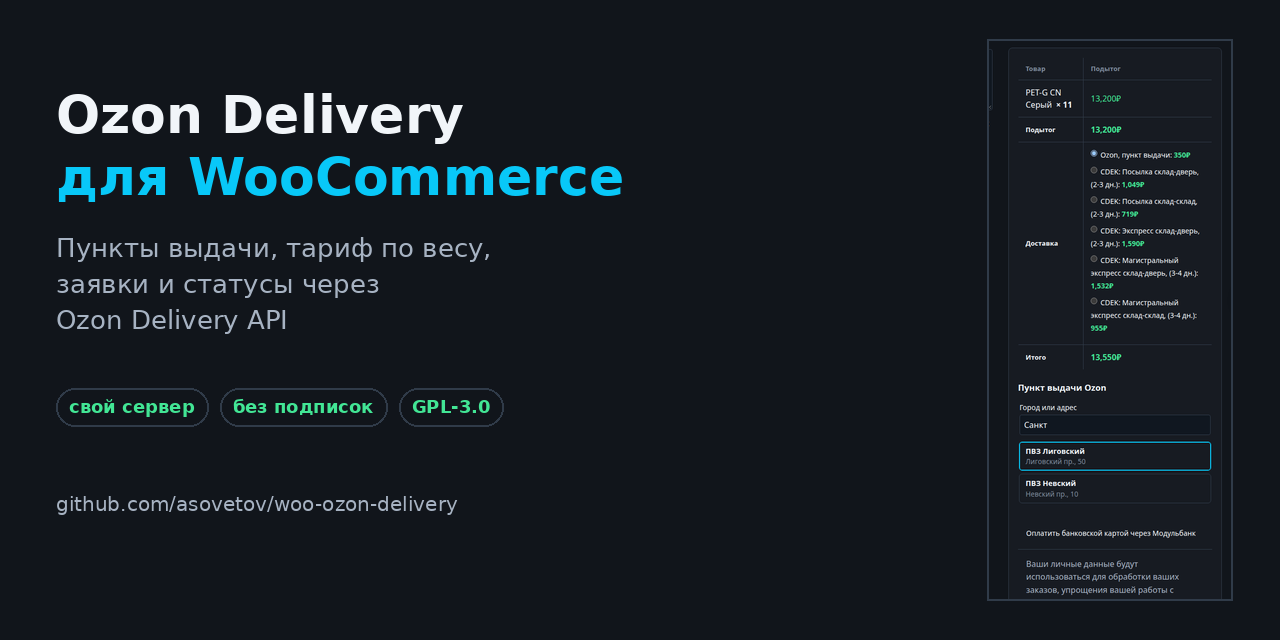
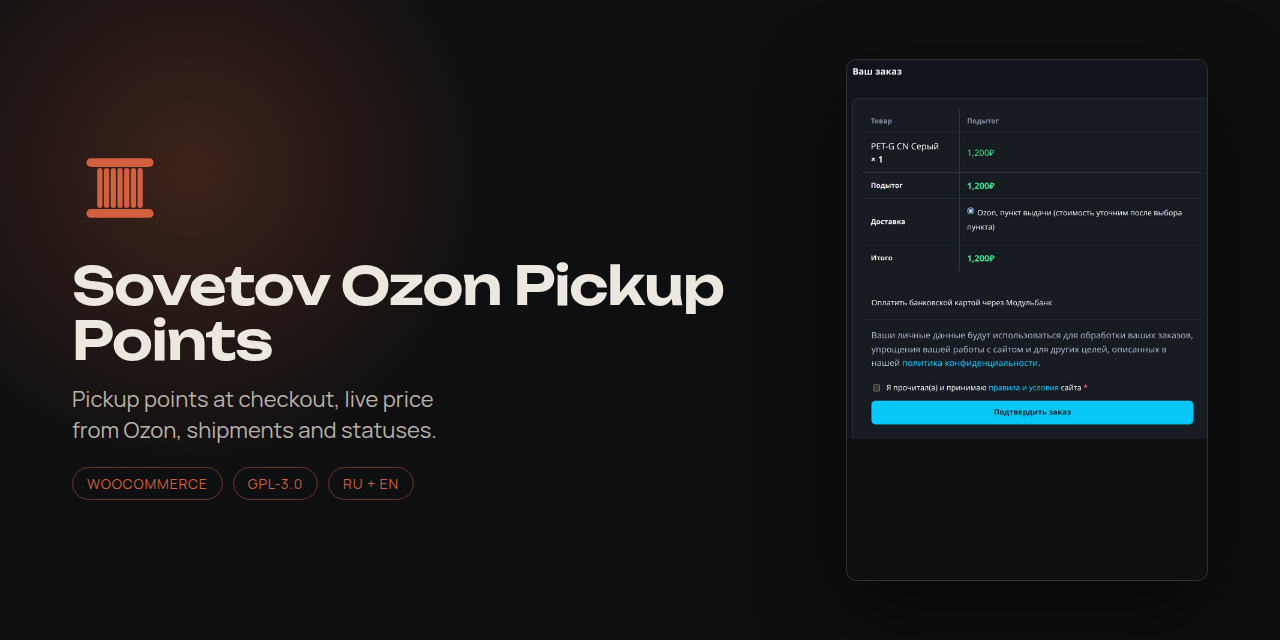
README: новая картинка без сторонних перевозчиков; внутренние файлы вынесены из репозитория

diff --git a/README.md b/README.md
@@ -1,4 +1,4 @@
-# Delivery to Ozon Pickup Points for WooCommerce
+# Sovetov Ozon Pickup Points for WooCommerce
 
 [![Release](https://img.shields.io/github/v/release/asovetov/ozon-pickup-points)](https://github.com/asovetov/ozon-pickup-points/releases)
 [![License: GPL-3.0](https://img.shields.io/badge/license-GPL--3.0-blue)](LICENSE)
@@ -16,12 +16,12 @@
 используется для B2B-доставки. С заказами физических лиц он, скорее всего, тоже заработает, но этот
 сценарий мы не проверяли и не гарантируем.
 
-![Выбор пункта выдачи Ozon на оформлении заказа](docs/checkout-pvz.png)
+![Способ доставки Ozon на оформлении заказа](docs/checkout-pvz.png)
 
-**Статус:** 0.3.0. Весь путь заказа собран и проверен на локальном стенде: активация, кэш
-пунктов, поиск и выбор ПВЗ в оформлении, создание заявки кнопкой в заказе, опрос статусов
-кроном. С боевыми ключами Ozon не проверялось: для этого нужен магазин с доступом к
-Delivery API. Не сделано: печать этикеток, отмена и возвраты через API.
+**Статус:** 0.5.3, плагин в [каталоге WordPress.org](https://wordpress.org/plugins/sovetov-ozon-pickup-points/).
+Весь путь заказа собран и проверен на стенде и в бою: активация, кэш пунктов, поиск и выбор ПВЗ
+в оформлении, создание заявки кнопкой в заказе, опрос статусов кроном. Интерфейс на русском и
+английском. Не сделано: печать этикеток, отмена и возвраты через API.
 
 ## Что умеет
 
